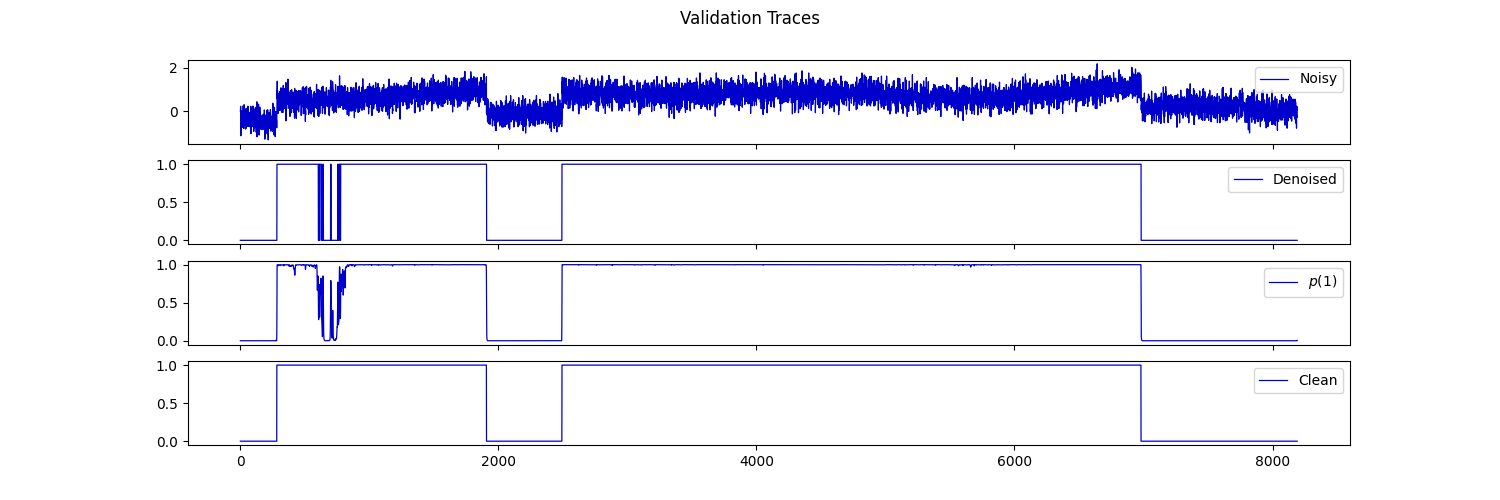
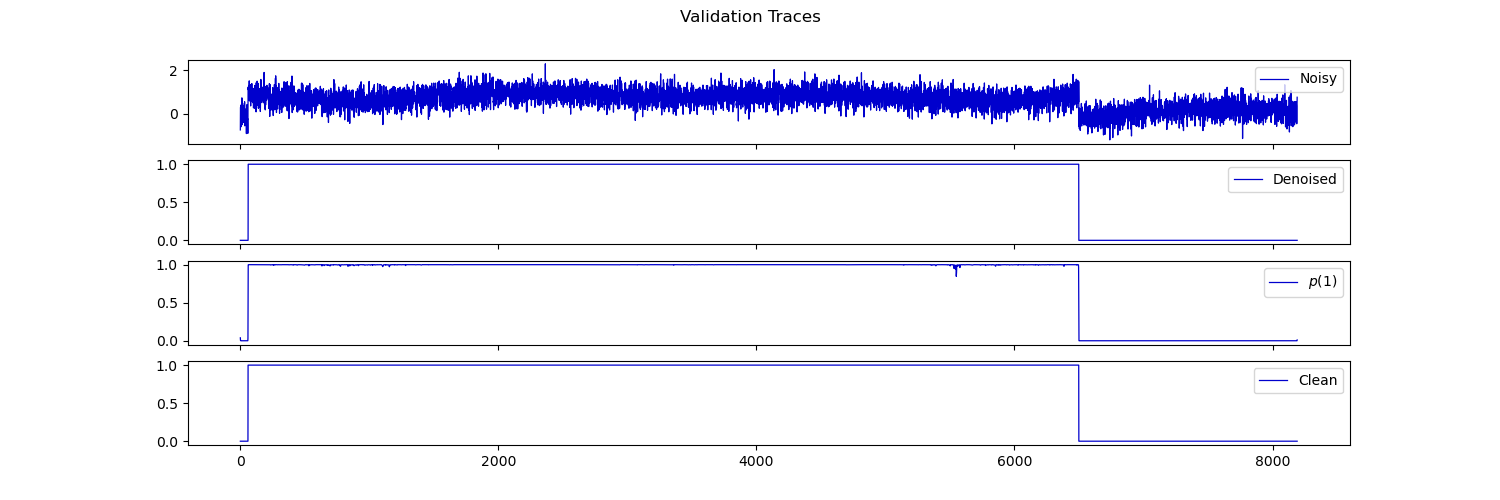
testing fixed

diff --git a/denoiser_test.py b/denoiser_test.py
@@ -17,7 +17,7 @@ device = torch.device('cuda' if torch.cuda.is_available() else 'cpu')
 
 # Directory setup
 current_dir = os.getcwd()  # Get the current working directory
-file_name = 'sim_elzerman_traces_test_10k'  # Name for the test HDF5 file
+file_name = 'sim_elzerman_traces_test'  # Name for the test HDF5 file
 #mask_name = 'sim_elzerman_test_masks'  # Name for the mask HDF5 file
 
 # Construct full paths for the HDF5 files
@@ -82,8 +82,8 @@ state_dict_name = 'model_weights'  # Name for the model state dictionary
 state_dict_path = os.path.join(model_dir, '{}.pth'.format(state_dict_name))  # Full path for saving model weights
 
 # Load the model
-model = UNet()
-model.load_state_dict(torch.load(state_dict_path))
+model = UNet().to(device)
+model.load_state_dict(torch.load(state_dict_path, map_location=device))
 model.eval()
 
 # Visualize validation dataset predictions
